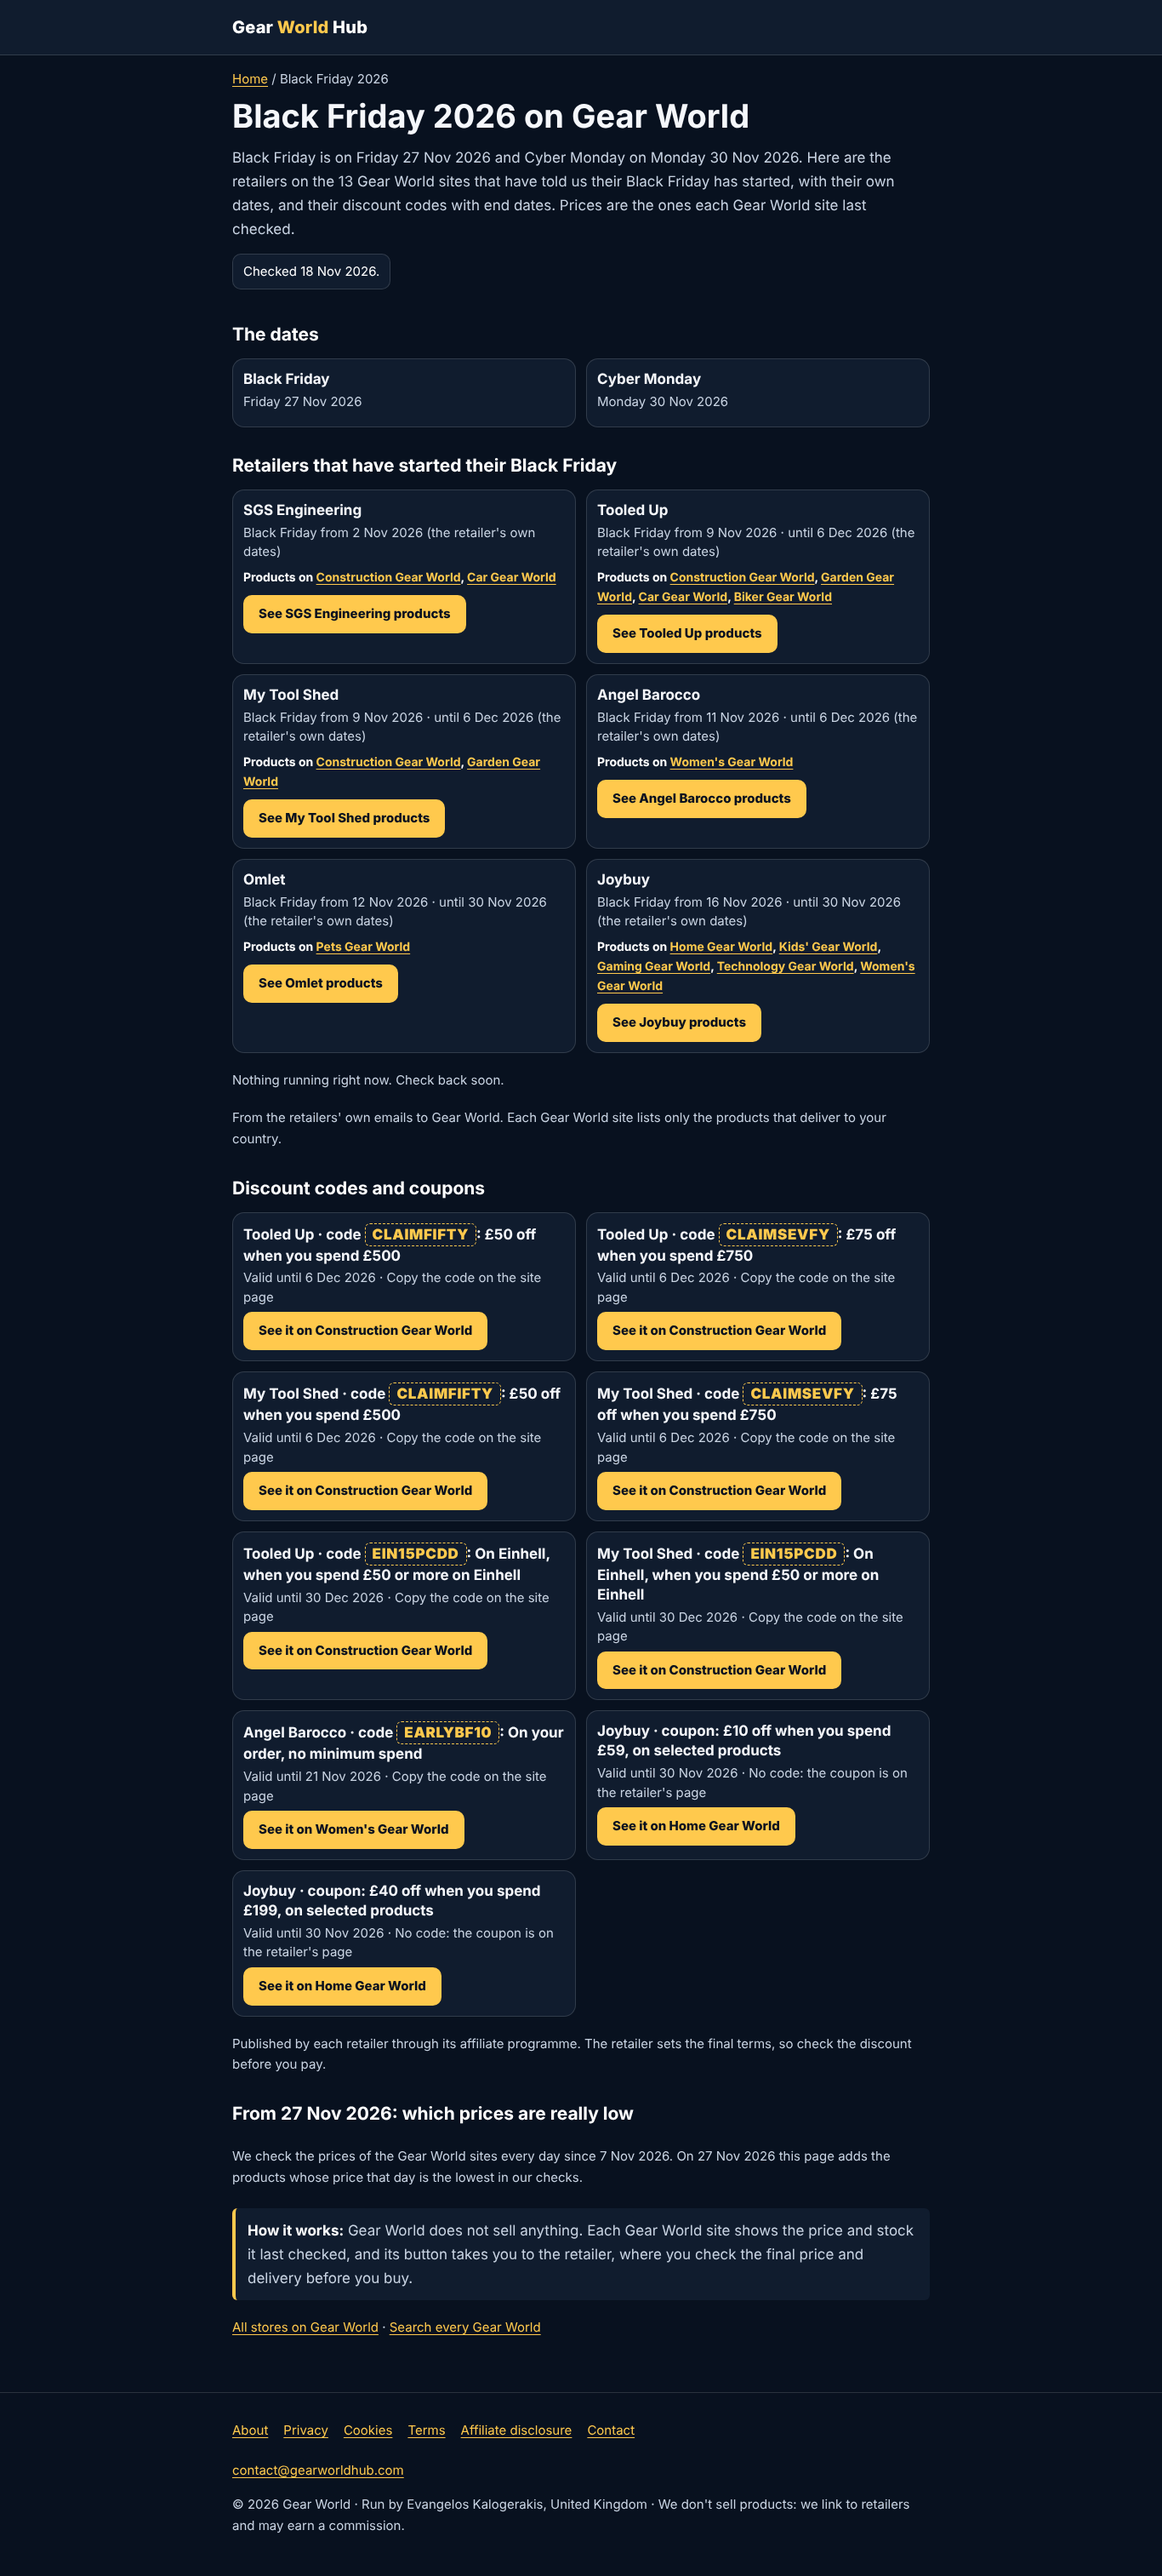
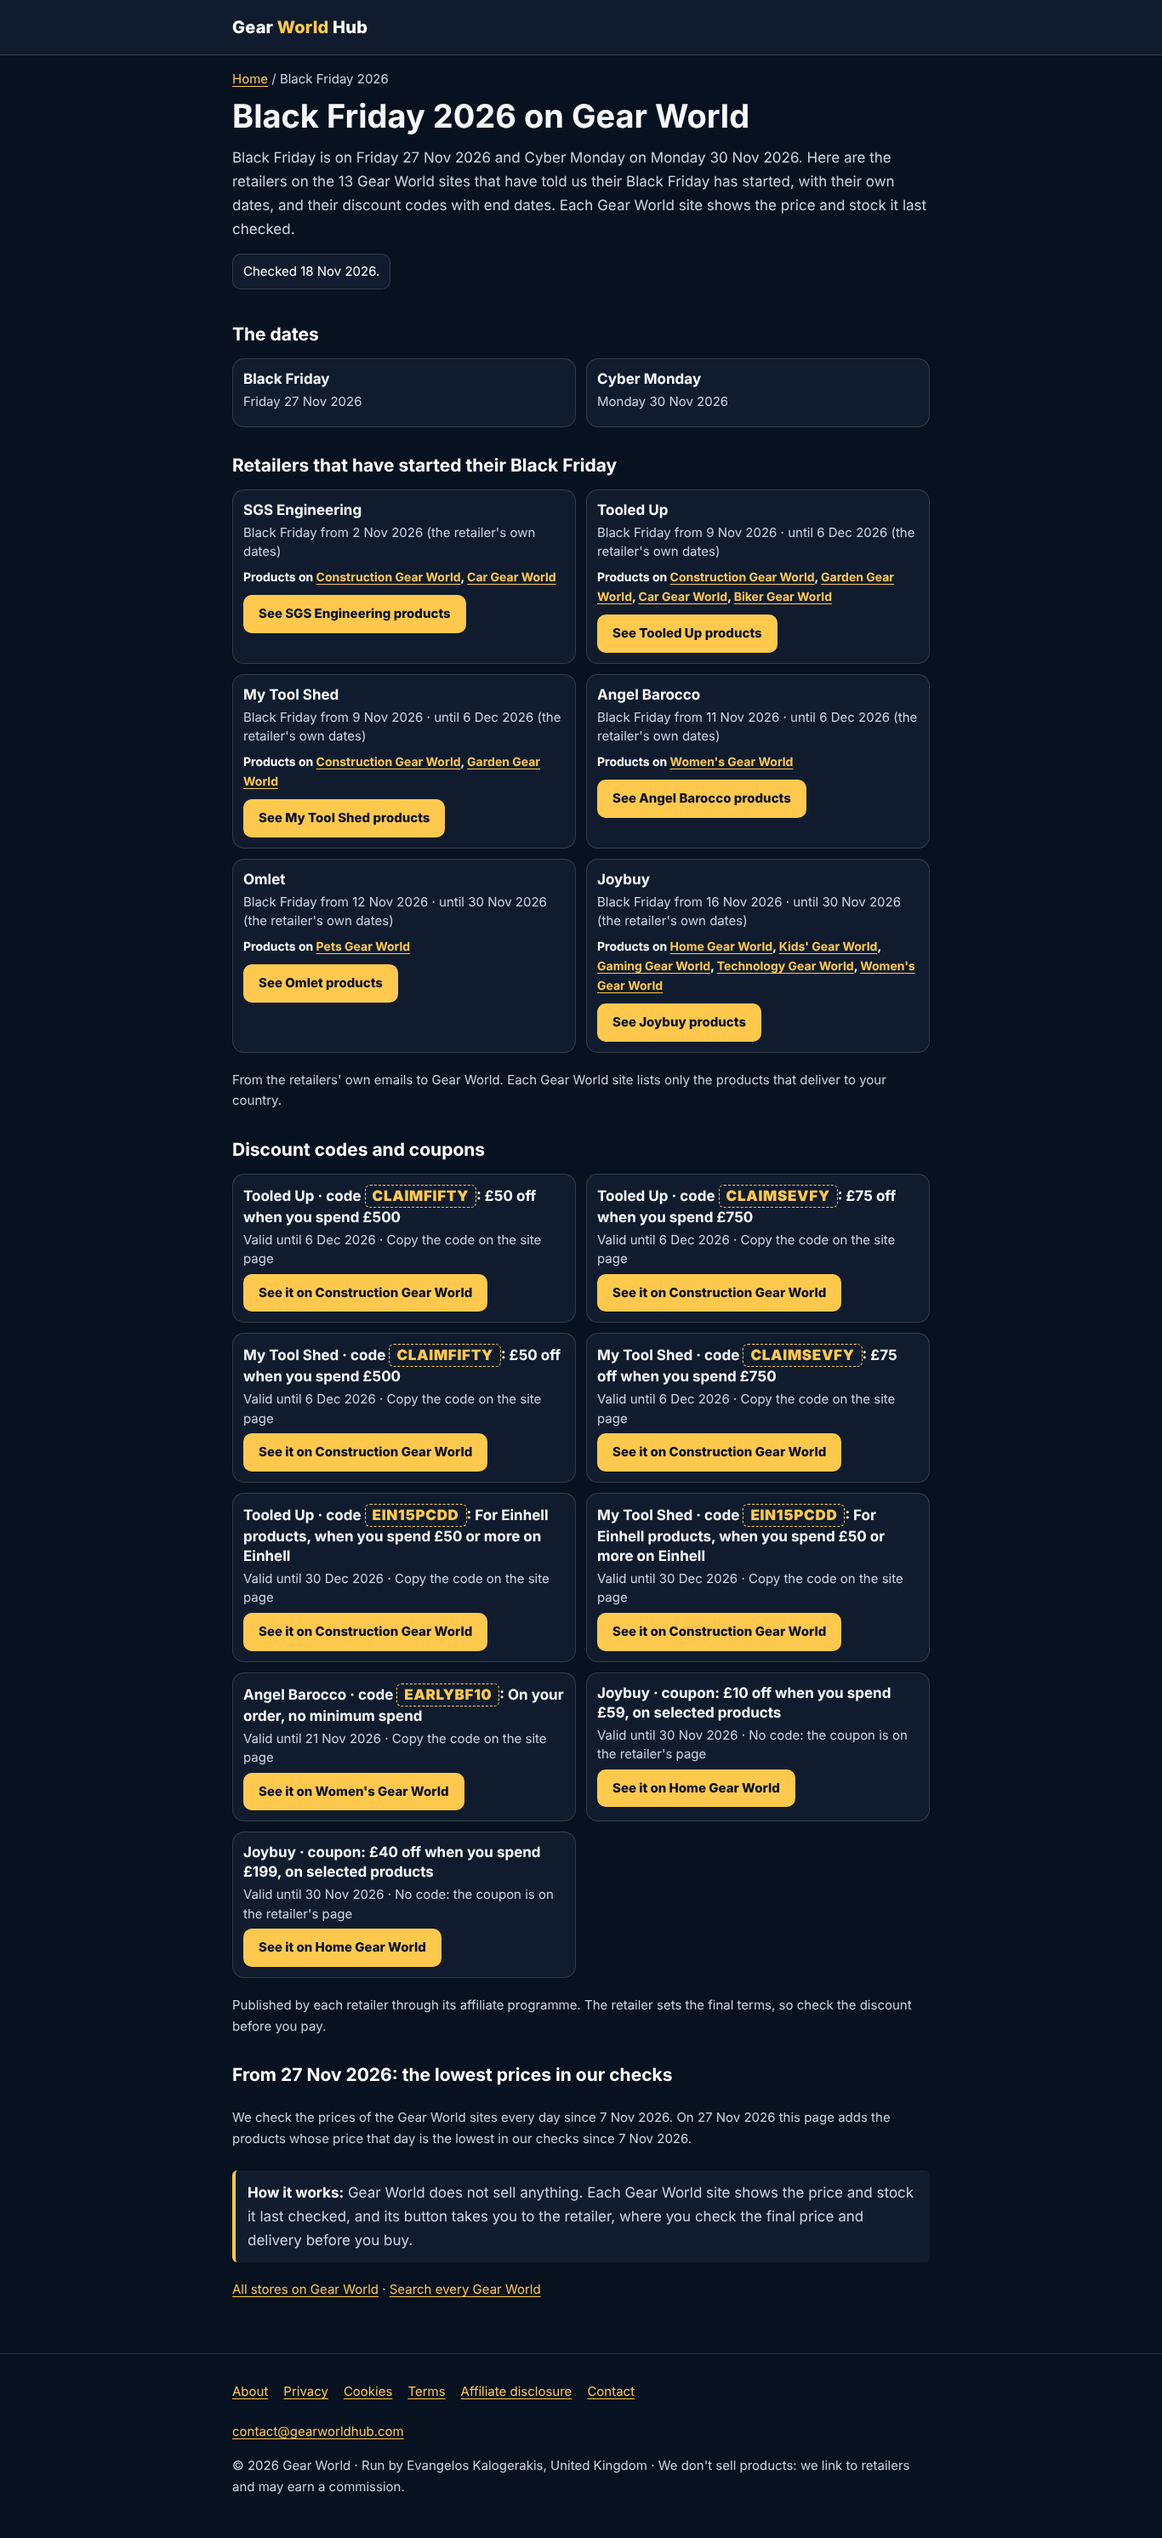
Black Friday page: review fixes (L188)
From the independent review of the Black Friday Hub change:
- "Nothing running right now" showed under the 6 retailers: their items now carry rt-offer, so stores.js
  counts them (test: every dated item of a counted section is counted).
- No release can ship an ended code: build refuses on the UK day (exit 20) like gwh-stores, validate also
  refuses a retailer whose Black Friday ended and a code on a site its retailer is not on, and the Hub tool's
  stores check runs gwh-black-friday.mjs validate too, so its live step stops (test: 22 Nov refuses EARLYBF10).
- The sitemap tool now tells the owner what this change does: /black-friday/ in, 14 pages (plan, checks,
  rollback note, ready line).
- Wording: "the lowest prices in our checks" (since 7 Nov 2026), "Each Gear World site shows the price and
  stock it last checked", Einhell: "For Einhell products, when you spend £50 or more on Einhell".

Claude-Session: https://claude.ai/code/session_01AkduhTZjMNBoE8z6TPLvJm

diff --git a/sites/gwh/public/black-friday/index.html b/sites/gwh/public/black-friday/index.html
@@ -24,7 +24,7 @@
   <nav class="lg-crumbs" aria-label="Breadcrumb"><a href="/">Home</a> <span aria-hidden="true">/</span> <span>Black Friday 2026</span></nav>
   <article class="gd-article">
     <h1>Black Friday 2026 on Gear World</h1>
-    <p class="gd-lead">Black Friday is on Friday 27 Nov 2026 and Cyber Monday on Monday 30 Nov 2026. Here are the retailers on the 13 Gear World sites that have told us their Black Friday has started, with their own dates, and their discount codes with end dates. Prices are the ones each Gear World site last checked.</p>
+    <p class="gd-lead">Black Friday is on Friday 27 Nov 2026 and Cyber Monday on Monday 30 Nov 2026. Here are the retailers on the 13 Gear World sites that have told us their Black Friday has started, with their own dates, and their discount codes with end dates. Each Gear World site shows the price and stock it last checked.</p>
     <p class="gd-checked">Checked 18 Nov 2026.</p>
     <section class="gd-group" aria-labelledby="bf-dates-h">
       <h2 id="bf-dates-h">The dates</h2>
@@ -36,7 +36,7 @@
     <section class="gd-group rt-offers" aria-labelledby="bf-started-h">
       <h2 id="bf-started-h">Retailers that have started their Black Friday</h2>
       <ul class="gd-list">
-      <li class="gd-item rt-item" data-end="2026-11-30">
+      <li class="gd-item rt-item rt-offer" data-end="2026-11-30">
         <div class="gd-body">
           <h3><span translate="no">SGS Engineering</span></h3>
           <p class="gd-why">Black Friday from 2 Nov 2026 (the retailer's own dates)</p>
@@ -44,7 +44,7 @@
           <a class="gd-btn" href="https://constructiongearworld.com/search?q=SGS+Engineering&amp;retailer=SGS+Engineering"><span>See <span translate="no">SGS Engineering</span> products</span></a>
         </div>
       </li>
-      <li class="gd-item rt-item" data-end="2026-12-06">
+      <li class="gd-item rt-item rt-offer" data-end="2026-12-06">
         <div class="gd-body">
           <h3><span translate="no">Tooled Up</span></h3>
           <p class="gd-why">Black Friday from 9 Nov 2026 · until 6 Dec 2026 (the retailer's own dates)</p>
@@ -52,7 +52,7 @@
           <a class="gd-btn" href="https://constructiongearworld.com/search?q=Tooled+Up&amp;retailer=Tooled+Up"><span>See <span translate="no">Tooled Up</span> products</span></a>
         </div>
       </li>
-      <li class="gd-item rt-item" data-end="2026-12-06">
+      <li class="gd-item rt-item rt-offer" data-end="2026-12-06">
         <div class="gd-body">
           <h3><span translate="no">My Tool Shed</span></h3>
           <p class="gd-why">Black Friday from 9 Nov 2026 · until 6 Dec 2026 (the retailer's own dates)</p>
@@ -60,7 +60,7 @@
           <a class="gd-btn" href="https://constructiongearworld.com/search?q=My+Tool+Shed&amp;retailer=My+Tool+Shed"><span>See <span translate="no">My Tool Shed</span> products</span></a>
         </div>
       </li>
-      <li class="gd-item rt-item" data-end="2026-12-06">
+      <li class="gd-item rt-item rt-offer" data-end="2026-12-06">
         <div class="gd-body">
           <h3><span translate="no">Angel Barocco</span></h3>
           <p class="gd-why">Black Friday from 11 Nov 2026 · until 6 Dec 2026 (the retailer's own dates)</p>
@@ -68,7 +68,7 @@
           <a class="gd-btn" href="https://womensgearworld.com/search?q=Angel+Barocco&amp;retailer=Angel+Barocco"><span>See <span translate="no">Angel Barocco</span> products</span></a>
         </div>
       </li>
-      <li class="gd-item rt-item" data-end="2026-11-30">
+      <li class="gd-item rt-item rt-offer" data-end="2026-11-30">
         <div class="gd-body">
           <h3><span translate="no">Omlet</span></h3>
           <p class="gd-why">Black Friday from 12 Nov 2026 · until 30 Nov 2026 (the retailer's own dates)</p>
@@ -76,7 +76,7 @@
           <a class="gd-btn" href="https://petsgearworld.com/search?q=Omlet&amp;retailer=Omlet"><span>See <span translate="no">Omlet</span> products</span></a>
         </div>
       </li>
-      <li class="gd-item rt-item" data-end="2026-11-30">
+      <li class="gd-item rt-item rt-offer" data-end="2026-11-30">
         <div class="gd-body">
           <h3><span translate="no">Joybuy</span></h3>
           <p class="gd-why">Black Friday from 16 Nov 2026 · until 30 Nov 2026 (the retailer's own dates)</p>
@@ -121,14 +121,14 @@
       </li>
       <li class="gd-item rt-item rt-offer" data-end="2026-12-30">
         <div class="gd-body">
-          <h3><span translate="no">Tooled Up</span> · code <strong class="rt-code" translate="no">EIN15PCDD</strong>: On Einhell, when you spend £50 or more on Einhell</h3>
+          <h3><span translate="no">Tooled Up</span> · code <strong class="rt-code" translate="no">EIN15PCDD</strong>: For Einhell products, when you spend £50 or more on Einhell</h3>
           <p class="gd-why">Valid until 30 Dec 2026 · Copy the code on the site page</p>
           <a class="gd-btn" href="https://constructiongearworld.com/discount-codes/tooled-up/">See it on Construction Gear World</a>
         </div>
       </li>
       <li class="gd-item rt-item rt-offer" data-end="2026-12-30">
         <div class="gd-body">
-          <h3><span translate="no">My Tool Shed</span> · code <strong class="rt-code" translate="no">EIN15PCDD</strong>: On Einhell, when you spend £50 or more on Einhell</h3>
+          <h3><span translate="no">My Tool Shed</span> · code <strong class="rt-code" translate="no">EIN15PCDD</strong>: For Einhell products, when you spend £50 or more on Einhell</h3>
           <p class="gd-why">Valid until 30 Dec 2026 · Copy the code on the site page</p>
           <a class="gd-btn" href="https://constructiongearworld.com/discount-codes/my-tool-shed/">See it on Construction Gear World</a>
         </div>
@@ -159,8 +159,8 @@
       <p class="gd-note">Published by each retailer through its affiliate programme. The retailer sets the final terms, so check the discount before you pay.</p>
     </section>
     <section class="gd-group" aria-labelledby="bf-watch-h">
-      <h2 id="bf-watch-h">From 27 Nov 2026: which prices are really low</h2>
-      <p class="gd-note">We check the prices of the Gear World sites every day since 7 Nov 2026. On 27 Nov 2026 this page adds the products whose price that day is the lowest in our checks.</p>
+      <h2 id="bf-watch-h">From 27 Nov 2026: the lowest prices in our checks</h2>
+      <p class="gd-note">We check the prices of the Gear World sites every day since 7 Nov 2026. On 27 Nov 2026 this page adds the products whose price that day is the lowest in our checks since 7 Nov 2026.</p>
     </section>
     <div class="gd-tips">
       <p class="gd-tip"><strong>How it works:</strong> Gear World does not sell anything. Each Gear World site shows the price and stock it last checked, and its button takes you to the retailer, where you check the final price and delivery before you buy.</p>
